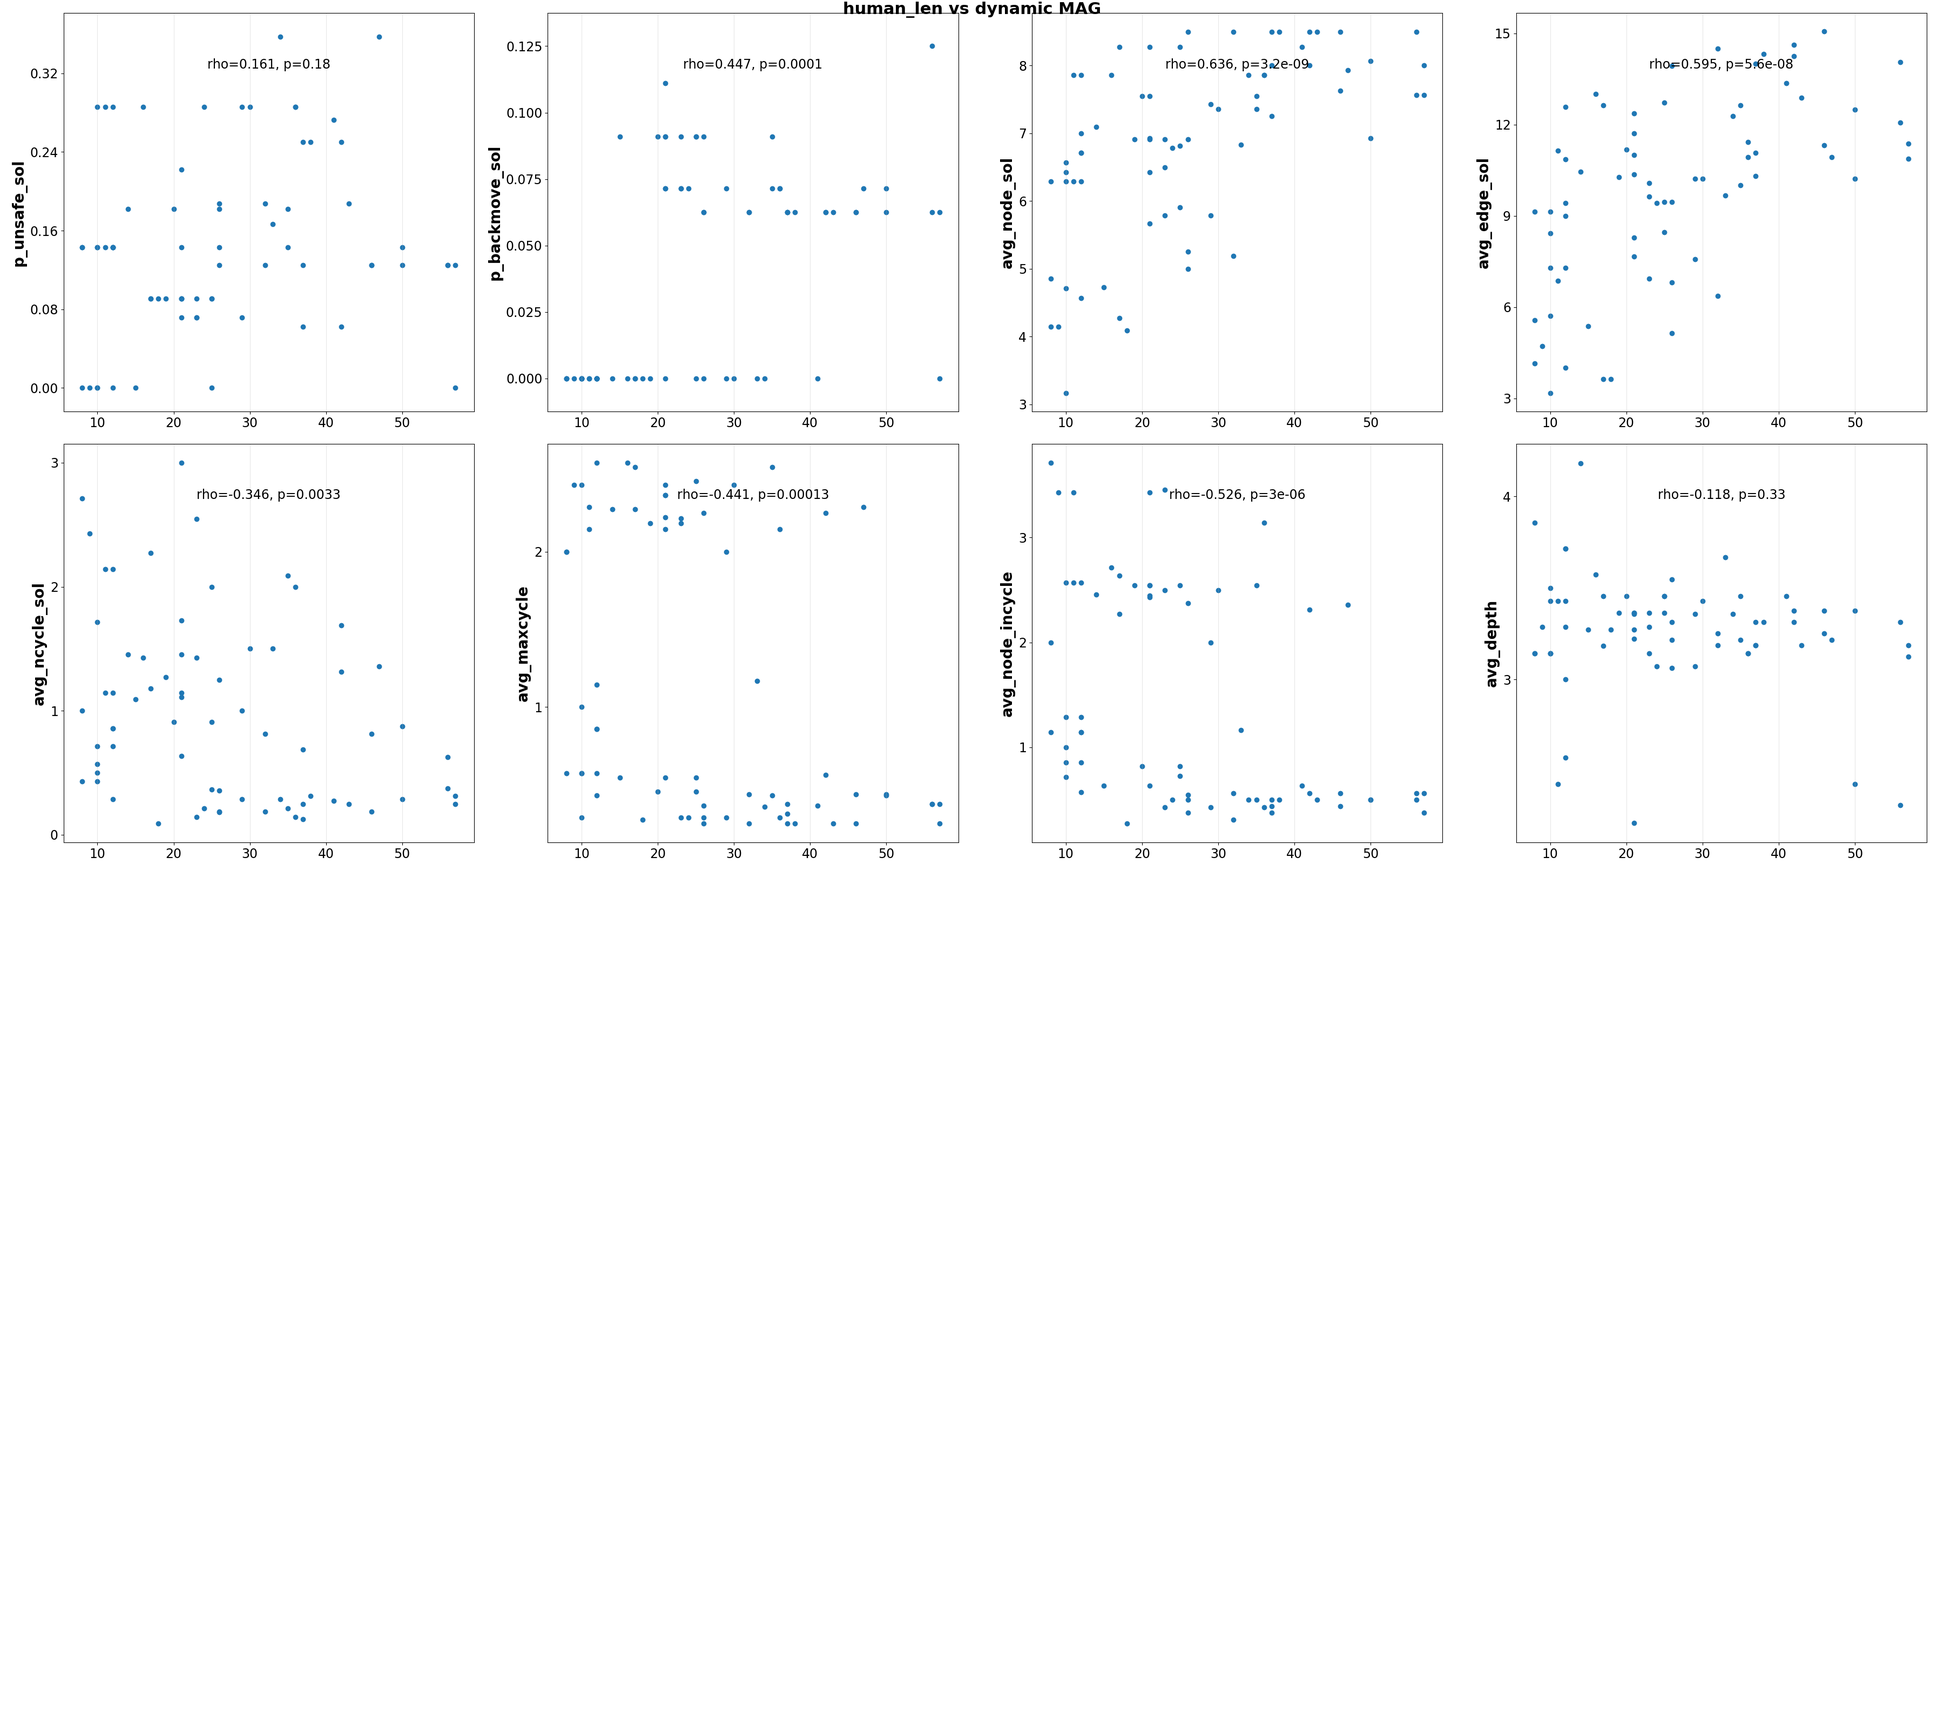
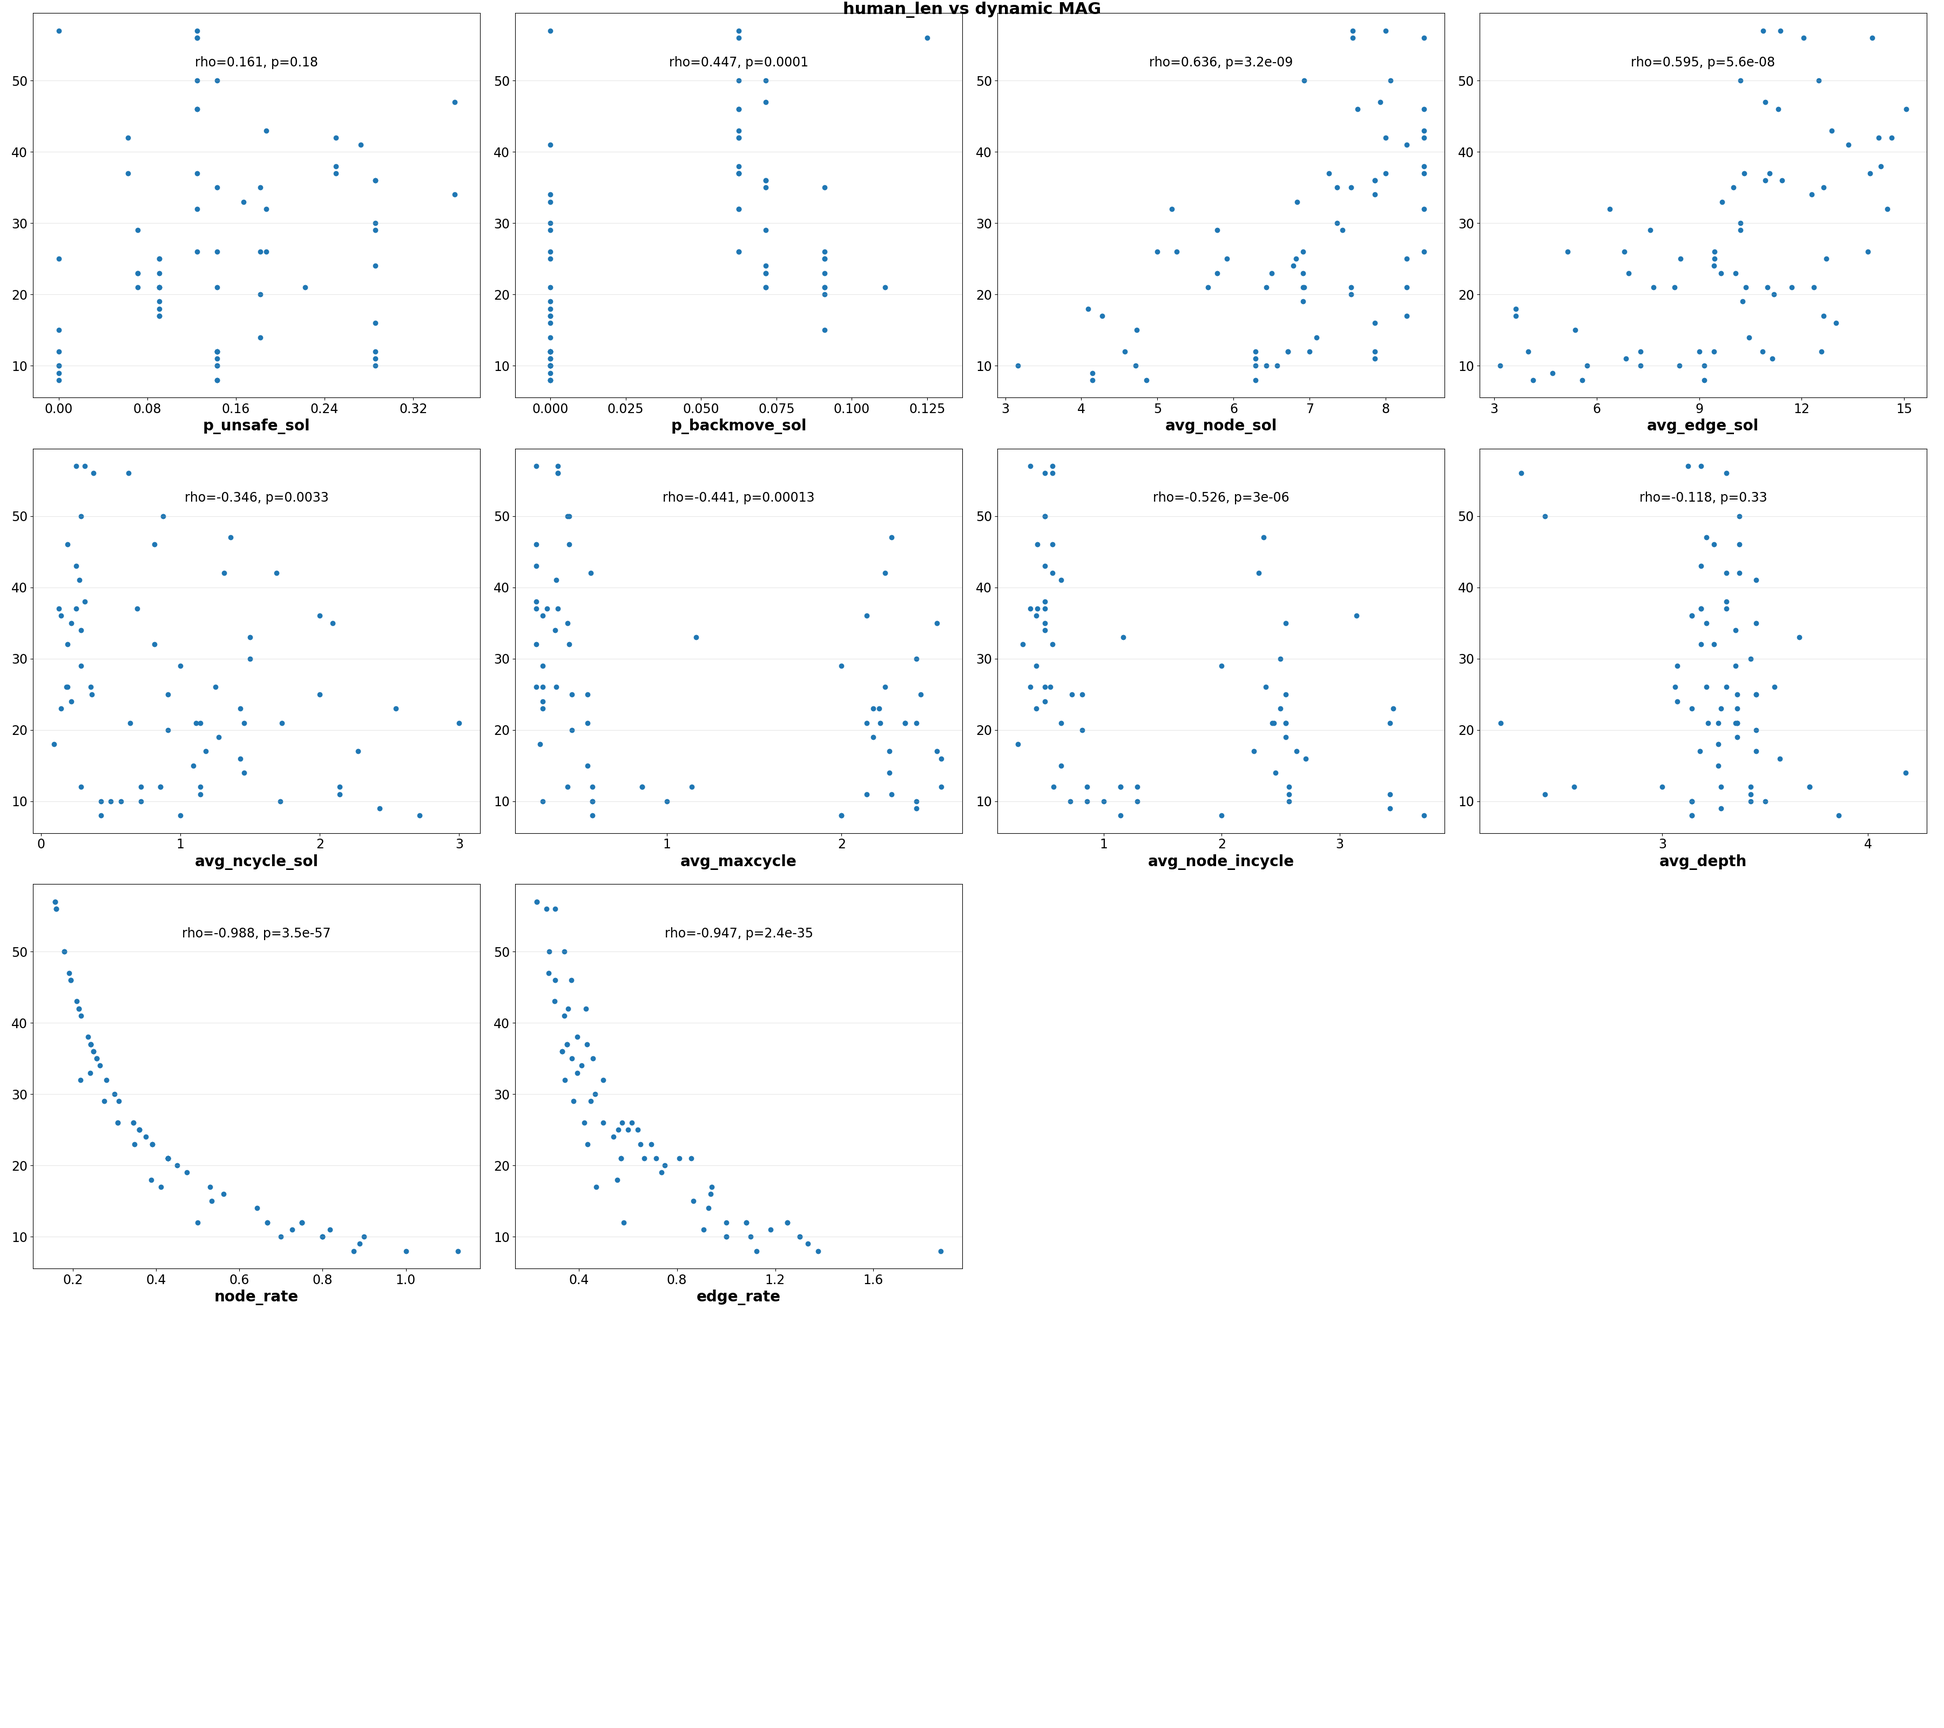
sub-puzzle

diff --git a/scripts/len_dynamicMAG.py b/scripts/len_dynamicMAG.py
@@ -170,19 +170,19 @@ def avg_node_edge(insdatafile, datafile): # average number of node and edge
 			my_board, my_red = MAG.construct_board(my_car_list)
 			new_car_list = MAG.construct_mag(my_board, my_red)
 			n_node, n_edge = MAG.get_mag_attr(new_car_list)
-			if duplicate > 3:
+			if duplicate > 1:
 				print(trial_data[i])
-				# break
+				break
 			if n_node == 1 and n_edge == 0:
 				duplicate += 1
 			trial_node += n_node
 			trial_edge += n_edge
 		if duplicate < 0:
 			duplicate = 0
-		if duplicate > 3:				
-			print(insdatafile)
-			print()
-			useless_trial += 1
+		# if duplicate > 2:				
+		# 	print(insdatafile)
+		# 	print()
+			# useless_trial += 1
 			# continue
 		trial_node += float(trial_node) / float(len(trial_data[i]))
 		trial_edge += float(trial_edge) / float(len(trial_data[i]))
@@ -194,7 +194,7 @@ def avg_node_edge(insdatafile, datafile): # average number of node and edge
 
 
 
-##################################### SOLUTION WISE ############################
+##################################### SOLUTION WISE ###############################
 
 def prop_unsafe_solution(insdatafile, solutionfile):
 	my_car_list, my_red = MAG.json_to_car_list(insdatafile)
@@ -335,30 +335,42 @@ def avg_red_depth_solution(insdatafile, solutionfile):
 	return float(total_depth) / float(len(sol_list) + 1)
 
 
+def node_edge_rate(insdatafile, opt_len):
+	# rate of node decreasing = #initial node / human len
+	# rate of edge decreasing = #initial edge / human len
+	my_car_list, my_red = MAG.json_to_car_list(insdatafile)
+	my_board, my_red = MAG.construct_board(my_car_list)
+	new_car_list = MAG.construct_mag(my_board, my_red)
+	n_node, n_edge = MAG.get_mag_attr(new_car_list)
+	return float(n_node) / float(opt_len), float(n_edge) / float(opt_len)
+
+
 # main
 len_file = '/Users/chloe/Documents/RushHour/exp_data/paths.json'
 move_dir = '/Users/chloe/Documents/RushHour/exp_data/'
 ins_dir = '/Users/chloe/Documents/RushHour/exp_data/data_adopted/'
-data_out = '/Users/chloe/Documents/RushHour/exp_data/dynamic_MAG/'
+data_out = '/Users/chloe/Documents/RushHour/state_model/in_data/'
 # sorted according to optimal length
 all_instances = ['prb8786', 'prb11647', 'prb21272', 'prb13171', 'prb1707', 'prb23259', 'prb10206', 'prb2834', 'prb28111', 'prb32795', 'prb26567', 'prb14047', 'prb14651', 'prb32695', 'prb29232', 'prb15290', 'prb12604', 'prb20059', 'prb9718', 'prb29414', 'prb22436', 'prb62015', 'prb38526', 'prb3217', 'prb34092', 'prb12715', 'prb54081', 'prb717', 'prb31907', 'prb42959', 'prb79230', 'prb14898', 'prb62222', 'prb68910', 'prb33509', 'prb46224', 'prb47495', 'prb29585', 'prb38725', 'prb33117', 'prb20888', 'prb55384', 'prb6671', 'prb343', 'prb68514', 'prb29600', 'prb23404', 'prb19279', 'prb3203', 'prb65535', 'prb14485', 'prb34551', 'prb72800', 'prb44171', 'prb1267', 'prb29027', 'prb24406', 'prb58853', 'prb24227', 'prb45893', 'prb25861', 'prb15595', 'prb54506', 'prb48146', 'prb78361', 'prb25604', 'prb46639', 'prb46580', 'prb10166', 'prb57223']
 bar_out_dir = '/Users/chloe/Documents/RushHour/state_figures/len_dynamicMAG.png'
-scatter_out = '/Users/chloe/Documents/RushHour/state_figures/len_dynamicMAG_scatter.png'
+scatter_out = '/Users/chloe/Documents/RushHour/state_figures/len_dynamicMAG_scatter2.png'
 scatter_x = 4
 scatter_y = 4
-num_features = 8
+num_features = 10
 # label_list = ['human_len', 'opt_len', 'p_unsafe', 'p_backmove', 'mean_#node', 'mean_#edge', 'p_unsafe_sol', 'p_backmove_sol']
 # feature_list = ['y_human', 'y_opt', 'y_unsafe', 'y_backmove', 'y_avgnode', 'y_avgedge', 'y_unsafesol' 'y_backmovesol']
 label_list = ['human_len', 'opt_len', \
 			'p_unsafe_sol', 'p_backmove_sol', \
 			'avg_node_sol', 'avg_edge_sol', \
 			'avg_ncycle_sol', 'avg_maxcycle',\
-			'avg_node_incycle', 'avg_depth']
+			'avg_node_incycle', 'avg_depth',\
+			'node_rate', 'edge_rate']
 feature_list = ['y_human', 'y_opt', \
 				'y_unsafesol', 'y_backmovesol', \
 				'y_avgnodesol', 'y_avgedgesol', \
 				'y_avgncycle', 'y_avgmaxcycle', \
-				'y_avgcnode', 'y_avgdepth']
+				'y_avgcnode', 'y_avgdepth',\
+				'y_noderate', 'y_edgerate']
 color_list = ['firebrick', 'lightcoral', 'maroon', 'salmon']
 dict_list = [{} for _ in range(num_features)]
 y_list = [[] for _ in range(num_features)]
@@ -417,17 +429,20 @@ for i in range(len(all_instances)):
 	# dict_list[2][cur_ins], dict_list[3][cur_ins] = avg_node_edge(ins_file, move_file)
 	print(cur_ins)
 	dict_list[0][cur_ins] = prop_unsafe_solution(ins_file, sol_file)
-	print('prop unsafe solution: ', dict_list[0][cur_ins])
+	# print('prop unsafe solution: ', dict_list[0][cur_ins])
 	dict_list[1][cur_ins] = prop_back_move_solution(ins_file, sol_file)
-	print('prop backmove solution: ', dict_list[1][cur_ins])
+	# print('prop backmove solution: ', dict_list[1][cur_ins])
 	dict_list[2][cur_ins], dict_list[3][cur_ins] = avg_node_edge_solution(ins_file, sol_file)
-	print('avg node, edge solution: ' + str(dict_list[2][cur_ins]) \
-			+ ', ' + str(dict_list[3][cur_ins]))
+	# print('avg node, edge solution: ' + str(dict_list[2][cur_ins]) \
+			# + ', ' + str(dict_list[3][cur_ins]))
 	dict_list[4][cur_ins], dict_list[5][cur_ins] = avg_cycle_solution(ins_file, sol_file)
-	print('avg ncycle, maxcycle solution: ' + str(dict_list[4][cur_ins]) \
-			+ ', ' + str(dict_list[5][cur_ins]))
+	# print('avg ncycle, maxcycle solution: ' + str(dict_list[4][cur_ins]) \
+			# + ', ' + str(dict_list[5][cur_ins]))
 	dict_list[6][cur_ins] = avg_node_cycle_solution(ins_file, sol_file)
 	dict_list[7][cur_ins] = avg_red_depth_solution(ins_file, sol_file)
+	dict_list[8][cur_ins], dict_list[9][cur_ins] = node_edge_rate(ins_file, optimal_dict[cur_ins])
+	# print('node rate, edge rate:' + str(dict_list[8][cur_ins]) + ' ' + str(dict_list[9][cur_ins]))
+	# dict_list[10][cur_ins] = avg_node_edge(ins_file, move_file)
 
 
 # generate value lists
@@ -482,13 +497,14 @@ for i in range(scatter_x):
 		if count >= len(y_list):
 			axarr[i,j].axis('off')
 			continue
-		axarr[i,j].scatter(y_human, y_list[count])
-		axarr[i,j].set_ylabel(label_list[count+2], fontsize=20, fontweight='bold')
+		axarr[i,j].scatter(y_list[count], y_human)
+		axarr[i,j].set_xlabel(label_list[count+2], fontsize=20, fontweight='bold')
 		t = 'rho=%s, p=%s'%(format(corr_list[count], '.3f'), format(p_list[count], '.2g'))
 		axarr[i,j].set_title(t,y=0.85,fontsize=17)
 		axarr[i,j].yaxis.set_major_locator(MaxNLocator(nbins=6,integer=True))
+		axarr[i,j].xaxis.set_major_locator(MaxNLocator(nbins=6,integer=True))
 		axarr[i,j].tick_params(axis='both', labelsize=17)
-		axarr[i,j].grid(True, axis='x', alpha=0.3)
+		axarr[i,j].grid(True, axis='y', alpha=0.3)
 		count += 1
 
 plt.tight_layout(pad=1.5, h_pad=1.5, w_pad=1.5, rect=None) 

diff --git a/scripts/linear_regr.py b/scripts/linear_regr.py
@@ -17,21 +17,23 @@ all_instances = ['prb8786', 'prb11647', 'prb21272', 'prb13171', 'prb1707', 'prb2
 # 				'#cycles', 'max c', '#c in c', '#n in c', 'pro n in c', \
 # 				'maxpath', '#maxpath', \
 # 				'glb cluster', 'loc cluster']
-features = ['y_opt',\
+features = [\
         'y_unsafesol', 'y_backmovesol', \
         'y_avgnodesol', 'y_avgedgesol', \
         'y_avgncycle', 'y_avgmaxcycle', \
-        'y_avgcnode', 'y_avgdepth']
-feature_labels = ['opt_len',\
+        'y_avgcnode', 'y_avgdepth',\
+        'y_noderate', 'y_edgerate']
+feature_labels = [\
       'p_unsafe_sol', 'p_backmove_sol', \
       'avg_node_sol', 'avg_edge_sol', \
       'avg_ncycle_sol', 'avg_maxcycle',\
-      'avg_node_incycle', 'avg_depth']
+      'avg_node_incycle', 'avg_depth',\
+      'node_rate', 'edge_rate']
 targets = ['y_human']
 data_dir = '/Users/chloe/Documents/RushHour/state_model/in_data/'
 out_dir = '/Users/chloe/Documents/RushHour/state_model/out_model/'
-fig_out = '/Users/chloe/Documents/RushHour/state_model/out_model/linear_regr4.png'
-coef_out = '/Users/chloe/Documents/RushHour/state_model/out_model/linear_regr_coef4.png'
+fig_out = '/Users/chloe/Documents/RushHour/state_model/out_model/linear_regr5.png'
+coef_out = '/Users/chloe/Documents/RushHour/state_model/out_model/linear_regr_coef5.png'
 
 # initialize feature data, [70,1]
 feature_data = np.expand_dims(np.load(data_dir + features[0] + '.npy'), axis=1) 
@@ -212,7 +214,7 @@ Adjusted R2: 0.66
 '''
 
 
-############# DYNAMIC MAG #############
+####################### DYNAMIC MAG #####################
 
 '''
 1
@@ -255,6 +257,7 @@ Variance score R2: 0.61
 Adjusted R2: 0.56
 '''
 '''
+4
 features = ['y_opt',\
         'y_unsafesol', 'y_backmovesol', \
         'y_avgnodesol', 'y_avgedgesol', \
@@ -272,11 +275,47 @@ Mean squared error: 42.20
 Variance score R2: 0.78
 Adjusted R2: 0.74
 '''
-
-
-
-
-
-
-
-
+'''
+5
+no car behind red henceforward
+features = [\
+        'y_unsafesol', 'y_backmovesol', \
+        'y_avgnodesol', 'y_avgedgesol', \
+        'y_avgncycle', 'y_avgmaxcycle', \
+        'y_avgcnode', 'y_avgdepth',\
+        'y_noderate', 'y_edgerate']
+feature_labels = [\
+      'p_unsafe_sol', 'p_backmove_sol', \
+      'avg_node_sol', 'avg_edge_sol', \
+      'avg_ncycle_sol', 'avg_maxcycle',\
+      'avg_node_incycle', 'avg_depth',\
+      'node_rate', 'edge_rate']
+Coefficients:
+[[-11.48919908 -28.41179201   0.77952853   2.20719239  -2.90389324
+   -3.70390593   2.65606275  -0.21088588 -30.87622426  -0.71330929]]
+Mean squared error: 46.86
+Variance score R2: 0.75
+Adjusted R2: 0.71
+'''
+'''
+6
+features = ['y_opt',\
+        'y_unsafesol', 'y_backmovesol', \
+        'y_avgnodesol', 'y_avgedgesol', \
+        'y_avgncycle', 'y_avgmaxcycle', \
+        'y_avgcnode', 'y_avgdepth',\
+        'y_noderate', 'y_edgerate']
+feature_labels = ['opt_len',\
+      'p_unsafe_sol', 'p_backmove_sol', \
+      'avg_node_sol', 'avg_edge_sol', \
+      'avg_ncycle_sol', 'avg_maxcycle',\
+      'avg_node_incycle', 'avg_depth',\
+      'node_rate', 'edge_rate']
+Coefficients:
+[[  2.1615126   -8.15594488 -14.2921397    0.37180278   1.71813503
+    0.19840921  -1.67968305  -0.6512975    0.61409549   7.51477288
+   -8.94120311]]
+Mean squared error: 44.05
+Variance score R2: 0.77
+Adjusted R2: 0.72
+'''

diff --git a/scripts/sub_puz.py b/scripts/sub_puz.py
@@ -1,0 +1,57 @@
+# record which subject did which puzzles
+import json, math
+import matplotlib.pyplot as plt
+from matplotlib.ticker import MaxNLocator
+import numpy as np
+import MAG, solution
+from scipy import stats
+
+path_file = '/Users/chloe/Documents/RushHour/exp_data/paths.json'
+data_out = '/Users/chloe/Documents/RushHour/exp_data/dynamic_MAG/'
+# sorted according to optimal length
+all_instances = ['prb8786', 'prb11647', 'prb21272', 'prb13171', 'prb1707', 'prb23259', 'prb10206', 'prb2834', 'prb28111', 'prb32795', 'prb26567', 'prb14047', 'prb14651', 'prb32695', 'prb29232', 'prb15290', 'prb12604', 'prb20059', 'prb9718', 'prb29414', 'prb22436', 'prb62015', 'prb38526', 'prb3217', 'prb34092', 'prb12715', 'prb54081', 'prb717', 'prb31907', 'prb42959', 'prb79230', 'prb14898', 'prb62222', 'prb68910', 'prb33509', 'prb46224', 'prb47495', 'prb29585', 'prb38725', 'prb33117', 'prb20888', 'prb55384', 'prb6671', 'prb343', 'prb68514', 'prb29600', 'prb23404', 'prb19279', 'prb3203', 'prb65535', 'prb14485', 'prb34551', 'prb72800', 'prb44171', 'prb1267', 'prb29027', 'prb24406', 'prb58853', 'prb24227', 'prb45893', 'prb25861', 'prb15595', 'prb54506', 'prb48146', 'prb78361', 'prb25604', 'prb46639', 'prb46580', 'prb10166', 'prb57223']
+fig_out = '/Users/chloe/Documents/RushHour/state_figures/sub_puz.png'
+data = []
+sub_dict = {}
+sub_list = []
+
+with open(path_file) as f: # read path data
+	for line in f:
+		data.append(json.loads(line))
+for i in range(0, len(data)):
+	line = data[i]
+	instance = line['instance']
+	subject = line['subject']
+	complete = line['complete']
+	human_len = line['human_length']
+	if subject not in sub_dict:
+		sub_dict[subject] = [0]*len(all_instances)
+	sub_dict[subject][all_instances.index(instance)] = 1
+	if complete == 'False':
+		continue
+	sub_dict[subject][all_instances.index(instance)] = int(human_len)
+for k in sub_dict: # convert dict to list
+	sub_list.append(sub_dict[k])
+
+
+
+# plot matrix
+plt.matshow(np.array(sub_list), vmin=0, vmax=40, cmap='binary')
+plt.ylabel('Subjects', fontsize=10)
+plt.xlabel('Puzzles', fontsize=10)
+plt.suptitle('Subjects vs Puzzles', fontsize=12)
+plt.title('coded by subject length', fontsize=9, x=0.55	, y=1.1)
+# plt.show()
+plt.colorbar()
+plt.savefig(fig_out)
+# count number of subjects for each puzzle
+# print(np.sum(sub_list, axis=0)) # [1, 70]
+print(np.array(sub_list).shape) # [86, 70] = [#sub, #puz]
+
+'''
+number of subjects for each puzzle
+[45 41 43 42 41 34 48 34 34 40 39 39 43 42 37 37 43 46
+ 43 47 46 44 41 43 37 43 39 39 46 39 44 47 39 42 39 43 
+ 40 41 50 41 38 42 43 41 44 43 38 37 39 40 40 37 41 
+ 42 42 36 42 40 41 41 39 38 38 40 40 39 41 38 41 37]
+'''

diff --git a/scripts/MAG.py b/scripts/MAG.py
@@ -195,17 +195,17 @@ def construct_mag(board, red):
 			if cur_car.tag != 'r':
 				red.edge_to.append(cur_car)
 				cur_car.visited = True
-	if len(queue) != 1: # continue searching only if red front is not empty
-		i = red.start[0] - 1 # obstacles behind red
-		while i >= 0:
-			cur_car = board.board_dict[(i, red.start[1])]
-			if cur_car is not None: #exists on board, not include red
-				if cur_car.tag != 'r' and cur_car.visited != True: # can be horizontal
-					queue.append(cur_car)
-					# print("queue append: " + cur_car.tag)
-					red.edge_to.append(cur_car)
-					cur_car.visited = True
-			i -= 1
+	# if len(queue) != 1: # continue searching only if red front is not empty
+	# 	i = red.start[0] - 1 # obstacles behind red
+	# 	while i >= 0:
+	# 		cur_car = board.board_dict[(i, red.start[1])]
+	# 		if cur_car is not None: #exists on board, not include red
+	# 			if cur_car.tag != 'r' and cur_car.visited != True: # can be horizontal
+	# 				queue.append(cur_car)
+	# 				# print("queue append: " + cur_car.tag)
+	# 				red.edge_to.append(cur_car)
+	# 				cur_car.visited = True
+	# 		i -= 1
 	red.visited = True
 	finished_list.append(red)
 	while len(queue) != 0: # obstacle blockers
